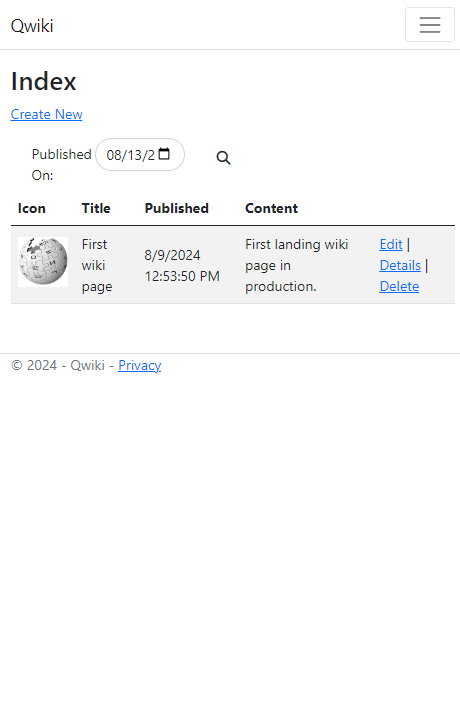
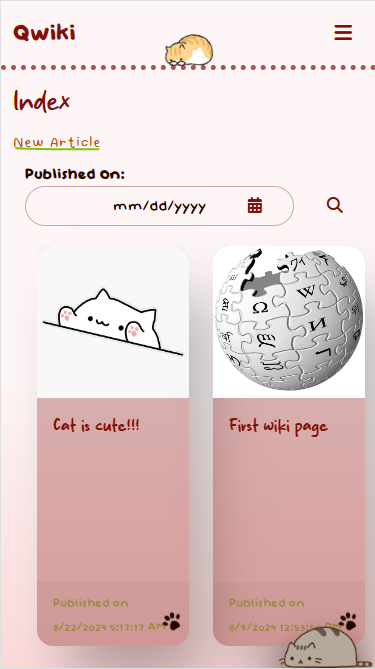
Updated: Readme, screenshots, and renamed some page titles (#16)
* Added cute fonts and color theme in css. Todo: add color picker to dynamically change color theme.

* Added screenshot and cat sound. Edited navbar font color and background color.

* Added cat logo on the navbar. Added Shimeji from another project. Todo: fix shimeji covered by navbar issue.

* Update README.md

* Added sound effect files.

* Updated Articles table styling to fit in mobile size. Changed to mobile-first development. Added doodle-art-style underline js library for styling link.

* Updated bootstrap to v5.3.2. Changed Articles list from table to card. Changed styling of Article card border to use custom border image. Changed default styling of scrollbar.

* Added js functions for color format conversion. Added user-defined dynamic theme changing function. Added cute cat border. Added dark mode toggle.

* Edited css and added primary, info, success, warning, danger color.

* v1.1.1.1: Fixed dark mode toggle mismatch with current theme mode on page load issue. Added theme demo page. Added versioning number. Removed border from Article.card.

* v1.2.1.1: Upgrade to .NET 9.

* v1.2.2.1: Revert to .NET 6 due to library conflicts.

* v1.2.2.2: Enabled rerouting from Articles/Details/{title?} to article/{title?} for shorter and slug url. Added unique constraint to article title for slug routing. Changed theme font. Modified css or navbar and all article views.

* v1.2.2.3: Updated Shimeji to latest version. Sorted article list be latest published date.
[…]

diff --git a/README.md b/README.md
@@ -2,11 +2,24 @@
 
 This is a screenshot of last working view in:
 
-Desktop browser:
+### Desktop browser:
 
+#### Homescreen
 ![desktop screenshot](/Qwiki/wwwroot/images/desktop.PNG)
 
-Mobile browser:
+#### User-Defined Theme Color (Auto Contrast Detection)
+The website will automatically detects the best color mode (`light` / `dark`) with the best contrast.
 
-![desktop screenshot](/Qwiki/wwwroot/images/mobile.PNG)
+![theme](/Qwiki/wwwroot/images/desktop_theme.PNG)
+
+#### Light Mode
+![ligth theme](/Qwiki/wwwroot/images/desktop_theme_light.PNG)
+
+#### Dark Mode
+![dark theme](/Qwiki/wwwroot/images/desktop_theme_dark.PNG)
+
+
+### Mobile browser:
+
+![mobile screenshot](/Qwiki/wwwroot/images/mobile.PNG)
 
